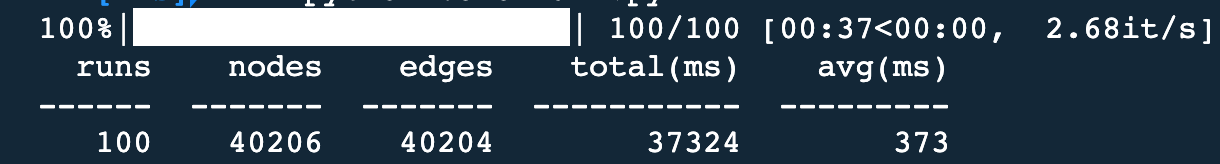
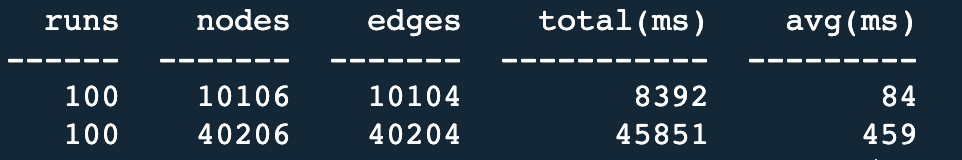
perf: benchmark a smaller graph

diff --git a/benchmark.py b/benchmark.py
@@ -1,5 +1,6 @@
 #!/usr/bin/env python3
 # -*- coding: utf-8 -*-
+from collections import namedtuple
 from time import time
 
 from tabulate import tabulate
@@ -13,7 +14,7 @@ from apssm.devices.switch import Switch
 from apssm.graph import AbstractPowerSupplySystemGraph
 
 
-def build_graph():
+def build_graph(level1: int, level2: int):
     graph = AbstractPowerSupplySystemGraph()
 
     graph.add_device(PowerSupply("power_supply_0"))
@@ -29,13 +30,13 @@ def build_graph():
     graph.add_device(Switch("switch_1"))
     graph.add_edge(first=("dc_dc_1", 1), second=("switch_1", 0))
 
-    for i in range(100):
+    for i in range(level1):
         graph.add_device(Bus(f"bus_0_{i}"))
         graph.add_edge(first=("switch_0", 1), second=(f"bus_0_{i}", 0))
         graph.add_device(Bus(f"bus_1_{i}"))
         graph.add_edge(first=("switch_1", 1), second=(f"bus_1_{i}", 0))
 
-        for j in range(100):
+        for j in range(level2):
             graph.add_device(Switch(f"switch_0_{i}_{j}"))
             graph.add_edge(first=(f"bus_0_{i}", 0), second=(f"switch_0_{i}_{j}", 0))
             graph.add_device(Load(f"load_0_{i}_{j}"))
@@ -55,15 +56,24 @@ def build_graph():
 
 runs = 100
 
+Result = namedtuple("Result", ["runs", "nodes", "edges", "total", "avg"])
+
 
 def main():
-    graph = build_graph()
-    start = time()
-    for _ in tqdm(range(runs)):
-        graph.gen_forest()
-    total = round((time() - start) * 1e3)
+    results: list[Result] = []
+    for level1, level2 in ((50, 50), (100, 100)):
+        graph = build_graph(level1, level2)
+        start = time()
+        for _ in tqdm(range(runs)):
+            graph.gen_forest()
+        total = round((time() - start) * 1e3)
+        results.append(
+            Result(
+                runs, len(graph.devices), len(graph.edges), total, round(total / runs)
+            )
+        )
     t = tabulate(
-        [[runs, len(graph.devices), len(graph.edges), total, round(total / runs)]],
+        results,
         headers=["runs", "nodes", "edges", "total(ms)", "avg(ms)"],
     )
     print(t)
